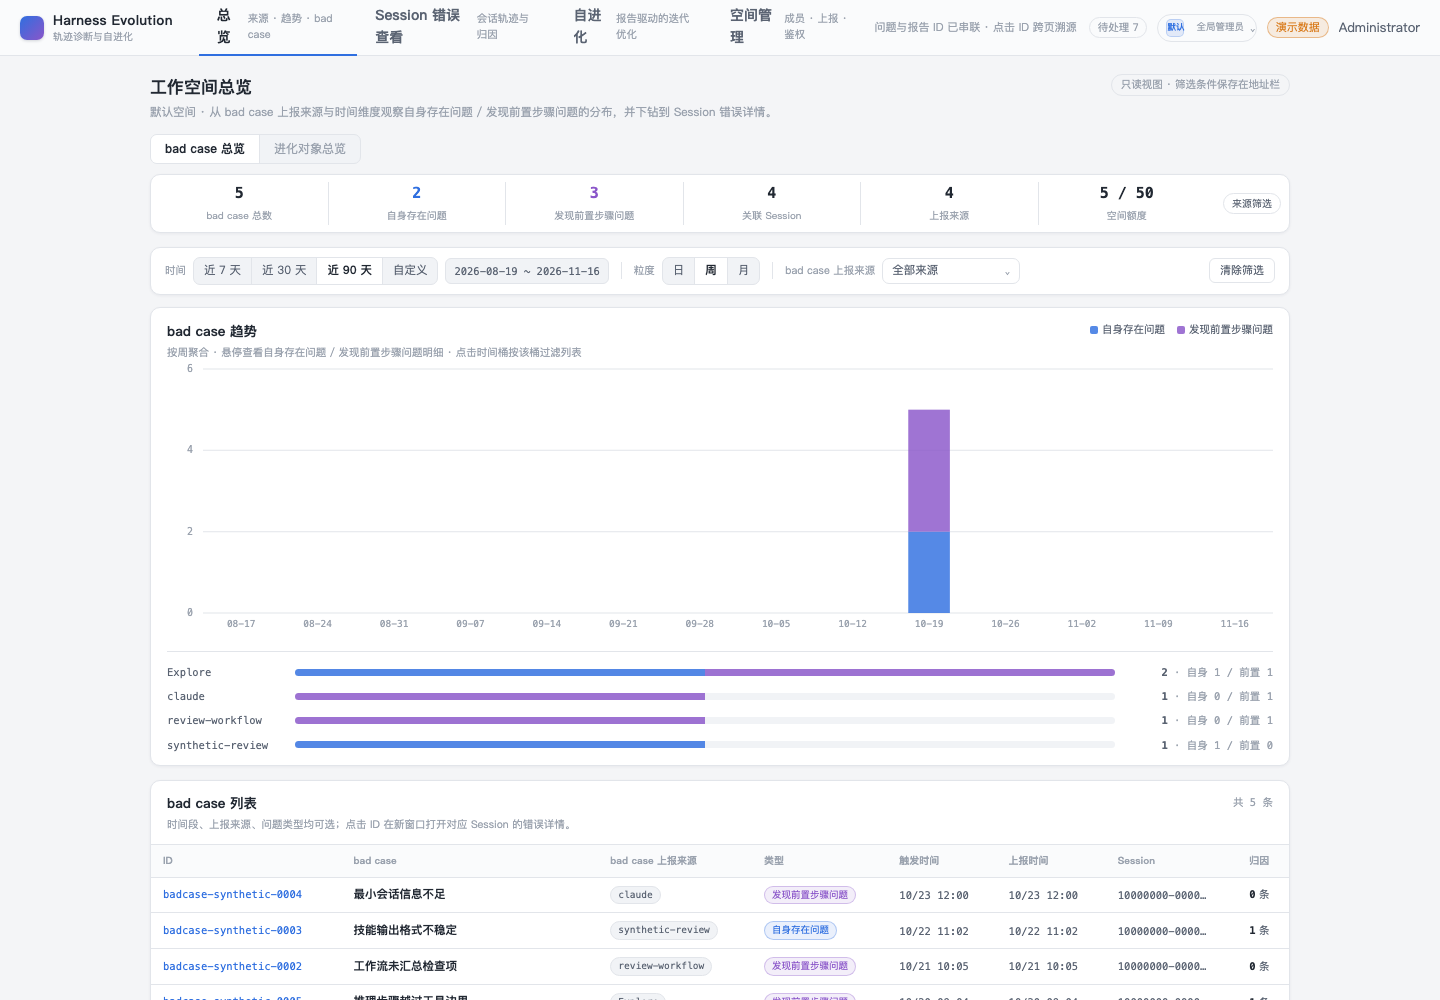
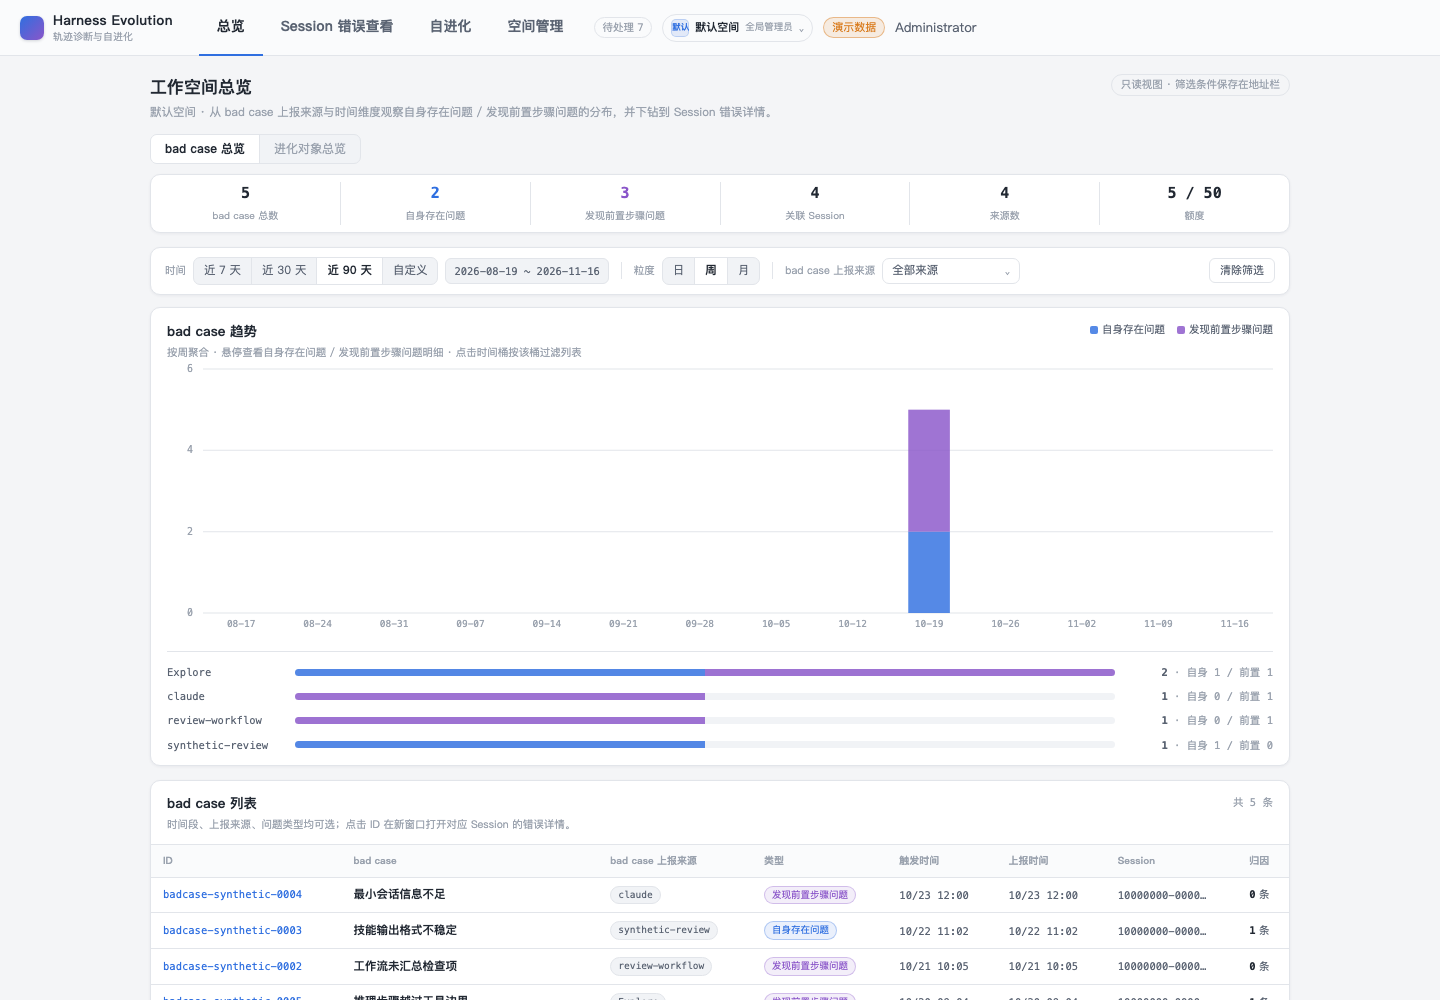
docs(evidence): m8-04 nav fix and final smoke report (#234)

diff --git a/evidence/m8-04/smoke-report.html b/evidence/m8-04/smoke-report.html
@@ -79,7 +79,7 @@
     <h1>m8-04 工作空间总览页面集成冒烟报告</h1>
     <p class="summary">在真实 API（SQLite + demo fixtures）+ Vite proxy + 无头 Chrome 中验证总览页默认落地、六格指标、时间/粒度/来源筛选写入 URL、bad case 深链，并与 plans/ui-prototype-v2 的总览页做视觉对照。空空间、刷新恢复与 390px 布局由 m8-04 E2E 覆盖，本报告不重复截图。</p>
     <span class="meta">2026-11-16 · macOS · Chrome headless · 1440×1000 与 390×844</span>
-    <div class="metrics"><div class="metric"><b>8</b><span>冒烟场景</span></div><div class="metric"><b>6</b><span>截图</span></div><div class="metric"><b>1</b><span>待修缺陷</span></div></div>
+    <div class="metrics"><div class="metric"><b>8</b><span>冒烟场景</span></div><div class="metric"><b>6</b><span>截图</span></div><div class="metric"><b>1</b><span>已修缺陷</span></div></div>
   </header>
 
   <section>
@@ -88,18 +88,18 @@
   </section>
 
   <section>
-    <div class="head"><h2>Scenario Matrix</h2><small>5 pass</small></div>
-    <div class="tableWrap"><table><thead><tr><th>#</th><th>场景</th><th>结果</th><th>说明</th><th>证据</th></tr></thead><tbody><tr><td class="num">01</td><td>默认落地总览与六格指标</td><td><span class="status pass">PASS</span></td><td>裸 /workspaces/ws-default 进入 /overview；六格 statstrip、趋势 SVG、bad case 表均渲染。</td><td class="evidence">01-overview.png</td></tr><tr><td class="num">02</td><td>时间窗与粒度写入 URL</td><td><span class="status pass">PASS</span></td><td>点击近 30 天与日粒度后 URL 为 range=30&amp;grain=day，图表重新请求。</td><td class="evidence">02-filtered.png</td></tr><tr><td class="num">03</td><td>来源多选写入 URL</td><td><span class="status pass">PASS</span></td><td>勾选来源「claude」后 URL 带 objects=，图表与列表按来源收窄。</td><td class="evidence">03-object-filter.png</td></tr><tr><td class="num">04</td><td>bad case 下钻深链</td><td><span class="status pass">PASS</span></td><td>行内 ID 链接指向 /workspaces/ws-default/sessions/10000000-0000-4000-8000-000000000004/errors，target=_blank，带 case 与 tab=desc。</td><td class="evidence">—</td></tr><tr><td class="num">05</td><td>与原型信息架构对照</td><td><span class="status pass">PASS</span></td><td>页头、六格 statstrip、时间/粒度/来源筛选、趋势图 + 来源条、bad case 表与原型同构；视觉沿用相同 token 与卡片布局，390px 无溢出。</td><td class="evidence">01-overview.png<br>06-prototype-overview.png</td></tr></tbody></table></div>
+    <div class="head"><h2>Scenario Matrix</h2><small>5 pass · 1 fixed</small></div>
+    <div class="tableWrap"><table><thead><tr><th>#</th><th>场景</th><th>结果</th><th>说明</th><th>证据</th></tr></thead><tbody><tr><td class="num">01</td><td>默认落地总览与六格指标</td><td><span class="status pass">PASS</span></td><td>裸 /workspaces/ws-default 进入 /overview；六格 statstrip、趋势 SVG、bad case 表均渲染。</td><td class="evidence">01-overview.png</td></tr><tr><td class="num">02</td><td>1440px 顶栏单行</td><td><span class="status fixed">FIXED</span></td><td>四个导航项均为 nowrap、单行；页面无横向溢出（修复前总览/自进化/空间管理折行）。</td><td class="evidence">00-nav-wrap-before.png<br>01-overview.png</td></tr><tr><td class="num">03</td><td>时间窗与粒度写入 URL</td><td><span class="status pass">PASS</span></td><td>点击近 30 天与日粒度后 URL 为 range=30&amp;grain=day，图表重新请求。</td><td class="evidence">02-filtered.png</td></tr><tr><td class="num">04</td><td>来源多选写入 URL</td><td><span class="status pass">PASS</span></td><td>勾选来源「claude」后 URL 带 objects=，图表与列表按来源收窄。</td><td class="evidence">03-object-filter.png</td></tr><tr><td class="num">05</td><td>bad case 下钻深链</td><td><span class="status pass">PASS</span></td><td>行内 ID 链接指向 /workspaces/ws-default/sessions/10000000-0000-4000-8000-000000000004/errors，target=_blank，带 case 与 tab=desc。</td><td class="evidence">—</td></tr><tr><td class="num">06</td><td>与原型信息架构对照</td><td><span class="status pass">PASS</span></td><td>页头、六格 statstrip、时间/粒度/来源筛选、趋势图 + 来源条、bad case 表与原型同构；视觉沿用相同 token 与卡片布局，390px 无溢出。</td><td class="evidence">01-overview.png<br>06-prototype-overview.png</td></tr></tbody></table></div>
   </section>
 
   <section>
     <div class="head"><h2>Issues and Observations</h2><small>P2 1440px 顶栏导航文字换行，与原型不一致<br>P3 对象×时间矩阵与进化对象 Tab 未交付</small></div>
-    <div class="issues"><article class="issueCard"><span class="tag">P2</span><h3>1440px 顶栏导航文字换行，与原型不一致</h3><dl><div><dt>实际</dt><dd>总览、自进化、空间管理在 1440px 下折成两行，原型保持单行。</dd></div><div><dt>预期</dt><dd>1440px 下四个导航项单行显示，子标题不挤压主标题。</dd></div><div><dt>根因</dt><dd>新增总览项后 .tn-item 没有 white-space: nowrap，且顶部信息总量超过可用宽度。</dd></div></dl><div class="fixed">待修复</div></article><article class="issueCard"><span class="tag">P3</span><h3>对象×时间矩阵与进化对象 Tab 未交付</h3><dl><div><dt>实际</dt><dd>总览页只渲染 bad case Tab；来源×时间矩阵省略。</dd></div><div><dt>预期</dt><dd>原型有可折叠矩阵；m8-03 未提供对象×桶聚合，targets Tab 属 M11。</dd></div><div><dt>根因</dt><dd>避免用分页数据伪造矩阵；targets 总览按里程碑延后。</dd></div></dl><div class="fixed">已记录 · 待后续 API / M11</div></article></div>
+    <div class="issues"><article class="issueCard"><span class="tag">P2</span><h3>1440px 顶栏导航文字换行，与原型不一致</h3><dl><div><dt>实际</dt><dd>总览、自进化、空间管理在 1440px 下折成两行，原型保持单行。</dd></div><div><dt>预期</dt><dd>1440px 下四个导航项单行显示，子标题不挤压主标题。</dd></div><div><dt>根因</dt><dd>新增总览项后 .tn-item 没有 white-space: nowrap，且顶部信息总量超过可用宽度。</dd></div></dl><div class="fixed">已修复 · be0a968</div></article><article class="issueCard"><span class="tag">P3</span><h3>对象×时间矩阵与进化对象 Tab 未交付</h3><dl><div><dt>实际</dt><dd>总览页只渲染 bad case Tab；来源×时间矩阵省略。</dd></div><div><dt>预期</dt><dd>原型有可折叠矩阵；m8-03 未提供对象×桶聚合，targets Tab 属 M11。</dd></div><div><dt>根因</dt><dd>避免用分页数据伪造矩阵；targets 总览按里程碑延后。</dd></div></dl><div class="fixed">已记录 · 待后续 API / M11</div></article></div>
   </section>
 
   <section>
-    <div class="head"><h2>Evidence</h2><small>4 screenshots</small></div>
-    <div class="shots"><figure class="wide"><img loading="lazy" src="01-overview.png" alt="工作空间总览页"><figcaption><b>01 · 总览</b><span>六格指标、趋势、来源条与 bad case 表同时可见。</span></figcaption></figure><figure class="wide"><img loading="lazy" src="02-filtered.png" alt="近 30 天与日粒度筛选"><figcaption><b>02 · 筛选</b><span>range=30&amp;grain=day 写入 URL，图表与列表重算。</span></figcaption></figure><figure class="wide"><img loading="lazy" src="03-object-filter.png" alt="来源多选筛选"><figcaption><b>03 · 来源</b><span>勾选来源后 objects= 写入 URL，chip 可移除。</span></figcaption></figure><figure class="wide"><img loading="lazy" src="06-prototype-overview.png" alt="原型总览页"><figcaption><b>05 · 原型</b><span>plans/ui-prototype-v2 的总览页，用作 IA 与视觉对照。</span></figcaption></figure></div>
+    <div class="head"><h2>Evidence</h2><small>5 screenshots</small></div>
+    <div class="shots"><figure class="wide"><img loading="lazy" src="00-nav-wrap-before.png" alt="修复前 1440px 顶栏换行"><figcaption><b>00 · 修复前</b><span>总览/自进化/空间管理逐字折行，与原型单行不一致。</span></figcaption></figure><figure class="wide"><img loading="lazy" src="01-overview.png" alt="工作空间总览页"><figcaption><b>01 · 总览</b><span>六格指标、趋势、来源条与 bad case 表同时可见。</span></figcaption></figure><figure class="wide"><img loading="lazy" src="02-filtered.png" alt="近 30 天与日粒度筛选"><figcaption><b>02 · 筛选</b><span>range=30&amp;grain=day 写入 URL，图表与列表重算。</span></figcaption></figure><figure class="wide"><img loading="lazy" src="03-object-filter.png" alt="来源多选筛选"><figcaption><b>03 · 来源</b><span>勾选来源后 objects= 写入 URL，chip 可移除。</span></figcaption></figure><figure class="wide"><img loading="lazy" src="06-prototype-overview.png" alt="原型总览页"><figcaption><b>06 · 原型</b><span>plans/ui-prototype-v2 的总览页，用作 IA 与视觉对照。</span></figcaption></figure></div>
   </section>
 
   <section>
@@ -108,8 +108,8 @@
   </section>
 
   <section>
-    <div class="head"><h2>Conclusion</h2><small>通过（含 1 项待修 + 2 项已知后续）</small></div>
-    <article class="card conclusion warn"><p><strong>5 个页面场景通过；发现 1 个 1440px 导航换行缺陷，修复后复测；对象×时间矩阵与 targets Tab 作为已知后续记录。</strong></p><ul><li>截图来自真实 API + 浏览器，原型截图仅作 IA/视觉对照。</li><li>默认落地已切换为总览；旧 /sessions 深链仍可进入 Session 页。</li></ul></article>
+    <div class="head"><h2>Conclusion</h2><small>通过（含 2 项已知后续）</small></div>
+    <article class="card conclusion pass"><p><strong>6 个页面场景通过；冒烟发现的 1440px 导航换行已修复并复测；对象×时间矩阵与 targets Tab 作为已知后续记录。</strong></p><ul><li>1440px 顶栏换行已在同一 PR 修复，修复前后截图均保留。</li><li>截图来自真实 API + 浏览器，原型截图仅作 IA/视觉对照。</li><li>默认落地已切换为总览；旧 /sessions 深链仍可进入 Session 页。</li></ul></article>
   </section>
 
   <p class="foot">由 m8-04 集成冒烟生成；不写入仓库。</p>
